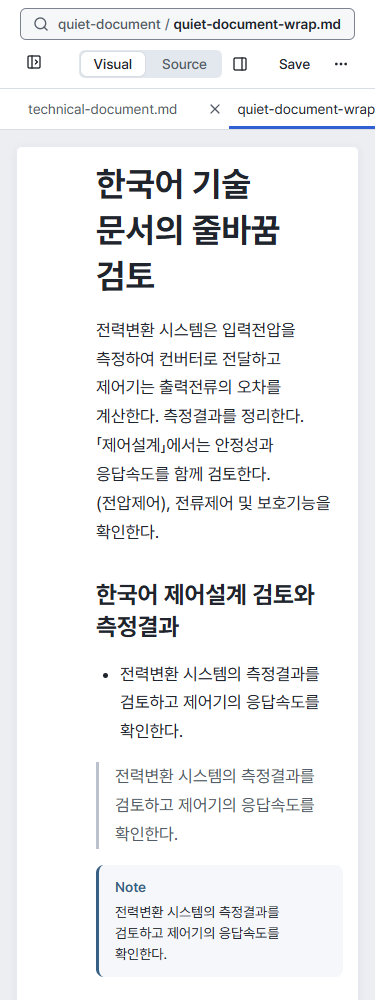
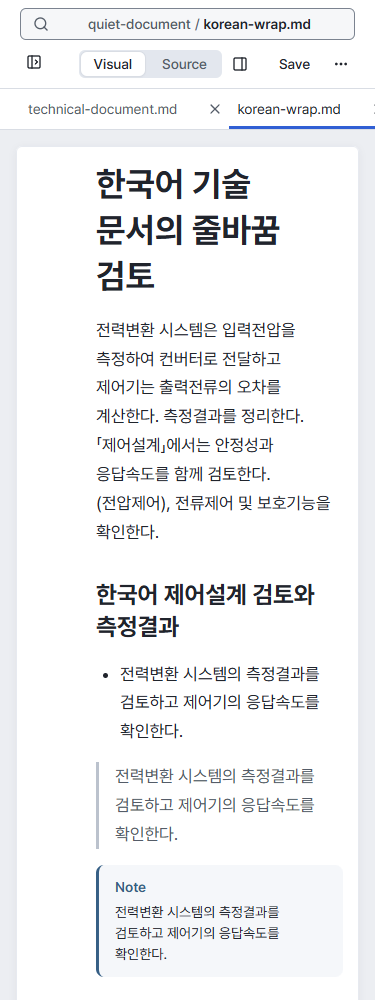
test(editor): preserve fixture navigation and await selection events
Keep the existing visual-states keyboard neighbors when adding the Korean
wrapping fixture. Assert native caret placement immediately, then check the
same engine position after ProseMirror observes selectionUpdate.
Refresh the same-state visual evidence with the final scratch fixture name.

AI-Agent: Codex
AI-Model: openai/gpt-6.1-sol

Changed region(s): [[0.1467, 0.0, 0.9093, 0.031], [0.616, 0.093, 1.0, 0.124]]

diff --git a/apps/editor/test/quiet-document.browser.js b/apps/editor/test/quiet-document.browser.js
@@ -60,7 +60,7 @@ async (page, { screenshots = false, openDocument, withBlockHover }) => {
     results.push({label,...result});
   };
   // #506: measure actual glyph lines, not just the declared word-break property.
-  await open('quiet-document-wrap.md');
+  await open('korean-wrap.md');
   const wrapResults = [];
   const prose = page.locator('[data-document-tab][data-active=true] .document-editor > .paragraph').first();
   const wrapDocument = await json();
@@ -148,7 +148,17 @@ async (page, { screenshots = false, openDocument, withBlockHover }) => {
     throw Error('Paragraph did not wrap');
   });
   await page.mouse.click(caret.x,caret.y);
-  check(await prose.evaluate((n,pos)=>n.closest('.document-editor').editor.state.selection.from===pos,caret.pos), 'Wrapped-line click placed the caret incorrectly');
+  check(await prose.evaluate(async(n,{pos,offset})=>{
+    const selection=window.getSelection(), editor=n.closest('.document-editor').editor;
+    // Native caret placement is synchronous; ProseMirror observes selectionchange later.
+    if(!selection.isCollapsed||selection.anchorNode!==n.firstChild||selection.anchorOffset!==offset)return false;
+    if(editor.state.selection.from!==pos)await new Promise((resolve,reject)=>{
+      const updated=()=>{clearTimeout(timeout);editor.off('selectionUpdate',updated);resolve();};
+      const timeout=setTimeout(()=>{editor.off('selectionUpdate',updated);reject(Error('Click selectionUpdate missing'));},1000);
+      editor.on('selectionUpdate',updated);
+    });
+    return editor.state.selection.empty&&editor.state.selection.from===pos;
+  },caret), 'Wrapped-line click placed the caret incorrectly');
   await page.keyboard.press('ArrowRight');
   await page.keyboard.press('Shift+ArrowUp');
   check(await prose.evaluate((n,{pos})=>{

diff --git a/apps/editor/test/browser/fixtures.ts b/apps/editor/test/browser/fixtures.ts
@@ -99,7 +99,9 @@ export const SCRATCH_DIRS: Record<string, { files: ScratchFile[]; scenarios: str
     scenarios: ["save-session"],
   },
   "quiet-document": {
-    files: [fixture("quiet-document.md"), fixture("quiet-document-long.md"), fixture("quiet-document-wrap.md"), document("diagram.svg"),
+    files: [fixture("quiet-document.md"), fixture("quiet-document-long.md"), document("diagram.svg"),
+      // Keep the existing quiet-document-long.md -> quiet-document.md keyboard neighbors.
+      { name: "korean-wrap.md", create: () => fixture("quiet-document-wrap.md").create() },
       { name: "아주-긴-파일명-very-long-technical-document-name-for-visual-review.md", create: () => fixture("quiet-document-long.md").create() }],
     scenarios: ["layout-rules", "quiet-document", "visual-states"],
   },

diff --git a/docs/design/editor-visual-language-v1.md b/docs/design/editor-visual-language-v1.md
@@ -176,7 +176,8 @@ The scenario measures each Korean word's Range rects across all supported prose 
 and the technical paragraph's individual characters, requiring line starts/ends at spaces.
 It also checks closing CJK punctuation, URL bounds in a paragraph and table cell, a
 constrained real table cell that forces the URL to wrap, caret placement by clicking a
-wrapped-line start, keyboard selection across lines, native Chromium composition at the
+wrapped-line start (DOM caret immediately, engine state after its `selectionUpdate` event),
+keyboard selection across lines, native Chromium composition at the
 preceding line end, and exact document restoration by Undo.
 
 Same-state product captures below are **manual review only**, not screenshot assertions.
